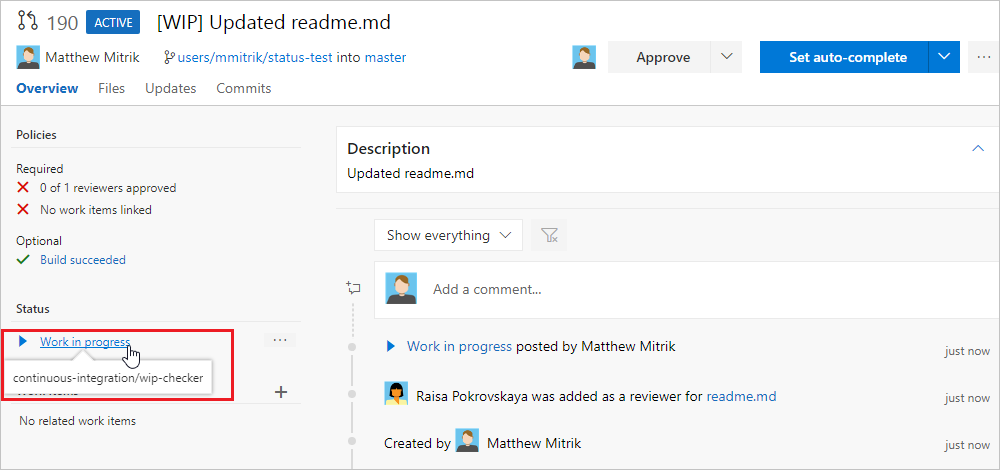
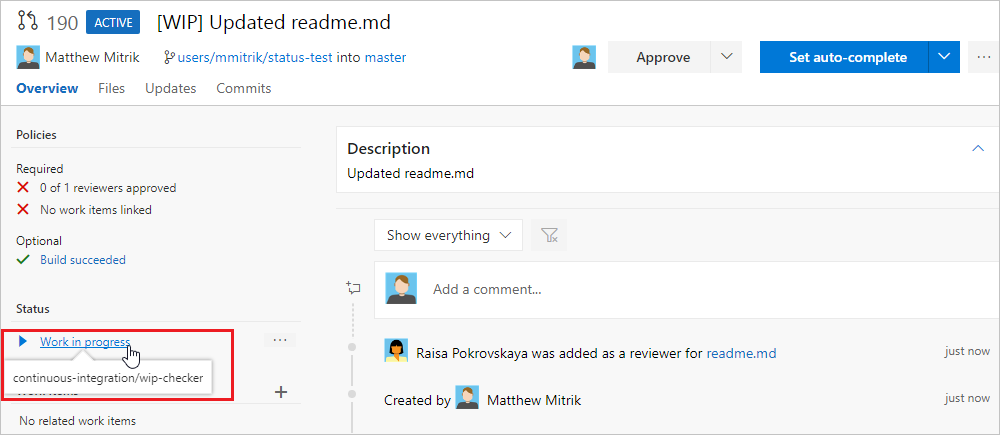
Tweaks

diff --git a/docs/git/how-to/create-pr-status-server-with-azure-functions.md b/docs/git/how-to/create-pr-status-server-with-azure-functions.md
@@ -6,7 +6,7 @@ ms.prod: vs-devops-alm
 ms.technology: vs-devops-git
 ms.manager: douge
 ms.author: yohasna
-ms.date: 12/31/2017
+ms.date: 12/08/2017
 ---
 
 # Use Azure Functions to create custom branch policies
@@ -126,9 +126,13 @@ Create a pull request to verify your azure function is receiving notifications.
 ## Post status to PRs
 Now that your server can receive service hook events when new PRs are created, update it to post back status to the PR. Service hook requests include a JSON payload describing the event. 
 
-Update the code of your Azure function to look like this:
+Update the code of your Azure function to look like the following example.
 
-Note: Make sure to update the code with your account name, project name, repository name and [PAT token](https://docs.microsoft.com/en-us/vsts/git/_shared/personal-access-tokens).
+Make sure to update the code with your account name, project name, repository name and [PAT token](https://docs.microsoft.com/en-us/vsts/git/_shared/personal-access-tokens). For a PR Status Server, the PAT requires [vso.code_status](/integrate/api/git/pull-requests/pullrequeststatuses#authorization-scopes) scope, which you can grant by selecting the **Code (status)** scope on the **Create a personal access token** page.
+
+>[!Important]
+>This sample code stores the PAT in code to simplify the sample, it is recommended to store secrets in KeyVault and retrieve them from there.
+
 
 This sample inspects the PR title to see if the user has indicated if the PR is a work in progress by adding "WIP" to the title. If so, change the status posted back to the PR.
 
@@ -267,13 +271,15 @@ Now that your server is running and listening for service hook notifications, cr
 
     ![Select Create a pull request from the suggestion bar](../_img/create-pr-status-server/create-pr.png)
 
-5. Add "WIP" in the title to test the functionality of the app. Select **Create** to create the PR.
+5. Add **WIP** in the title to test the functionality of the app. Select **Create** to create the PR.
 
-    ![Add "WIP" to the default PR title](../_img/create-pr-status-server/new-pr-wip.png)
+    ![Add WIP to the default PR title](../_img/create-pr-status-server/new-pr-wip.png)
 
-6. Once the PR has been created, you will see the status section, with the "Work in progress" entry and a message in the activity feed, both of which link to the URL specfied in the payload.
+6. Once the PR has been created, you will see the status section, with the **Work in progress** entry which links to the URL specfied in the payload.
 
-    ![Add "WIP" to the default PR title](../_img/create-pr-status-server/pr-with-status.png)
+    ![Add WIP to the default PR title](../_img/create-pr-status-server/pr-with-status.png)
+
+0. Update the PR title and remove the **WIP** text and note that the status changes from **Work in progress** to **Ready for review**.
 
 ## Next Steps
 * In this article, you learned the basics of how to create a serverless Azure function that listens for PR events via service hooks and can post status messages using the status API. For more information about the pull request status API see the [REST API documentation](https://go.microsoft.com/fwlink/?linkid=854107). 

diff --git a/docs/git/how-to/create-pr-status-server.md b/docs/git/how-to/create-pr-status-server.md
@@ -6,7 +6,7 @@ ms.prod: vs-devops-alm
 ms.technology: vs-devops-git
 ms.manager: douge
 ms.author: mmitrik
-ms.date: 09/05/2017
+ms.date: 12/08/2017
 ---
 
 # Create a pull request status server with Node.js
@@ -321,13 +321,15 @@ Now that your server is running and listening for service hook notifications, cr
 
     ![Select Create a pull request from the suggestion bar](../_img/create-pr-status-server/create-pr.png)
 
-5. Add "WIP" in the title to test the functionality of the app. Select **Create** to create the PR.
+5. Add **WIP** in the title to test the functionality of the app. Select **Create** to create the PR.
 
-    ![Add "WIP" to the default PR title](../_img/create-pr-status-server/new-pr-wip.png)
+    ![Add WIP to the default PR title](../_img/create-pr-status-server/new-pr-wip.png)
 
-6. Once the PR has been created, you will see the status section, with the "Work in progress" entry and a message in the activity feed, both of which link to the URL specfied in the payload.
+6. Once the PR has been created, you will see the status section, with the **Work in progress** entry which links to the URL specfied in the payload.
 
-    ![Add "WIP" to the default PR title](../_img/create-pr-status-server/pr-with-status.png)
+    ![Add WIP to the default PR title](../_img/create-pr-status-server/pr-with-status.png)
+
+0. Update the PR title and remove the **WIP** text and note that the status changes from **Work in progress** to **Ready for review**.
 
 ## Next Steps
 * In this article, you learned the basics of how to create a service that listens for PR events via service hooks and can post status messages using the status API. For more information about the pull request status API see the [REST API documentation](https://go.microsoft.com/fwlink/?linkid=854107). 
